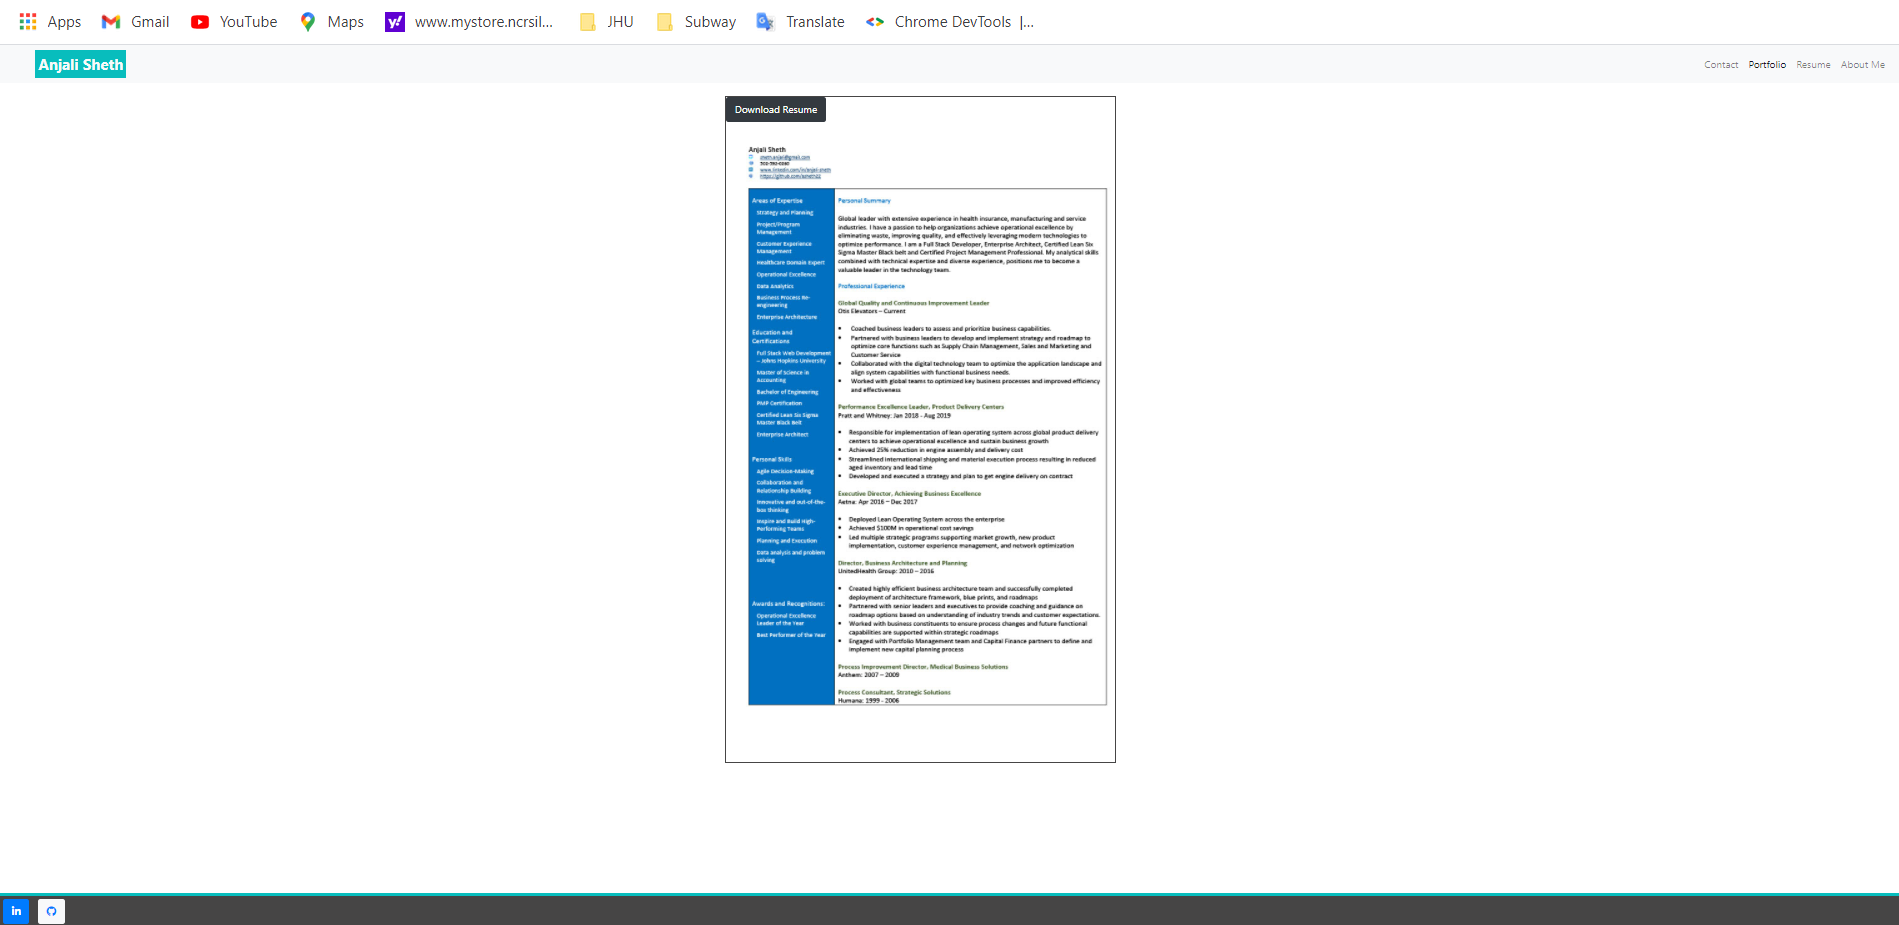
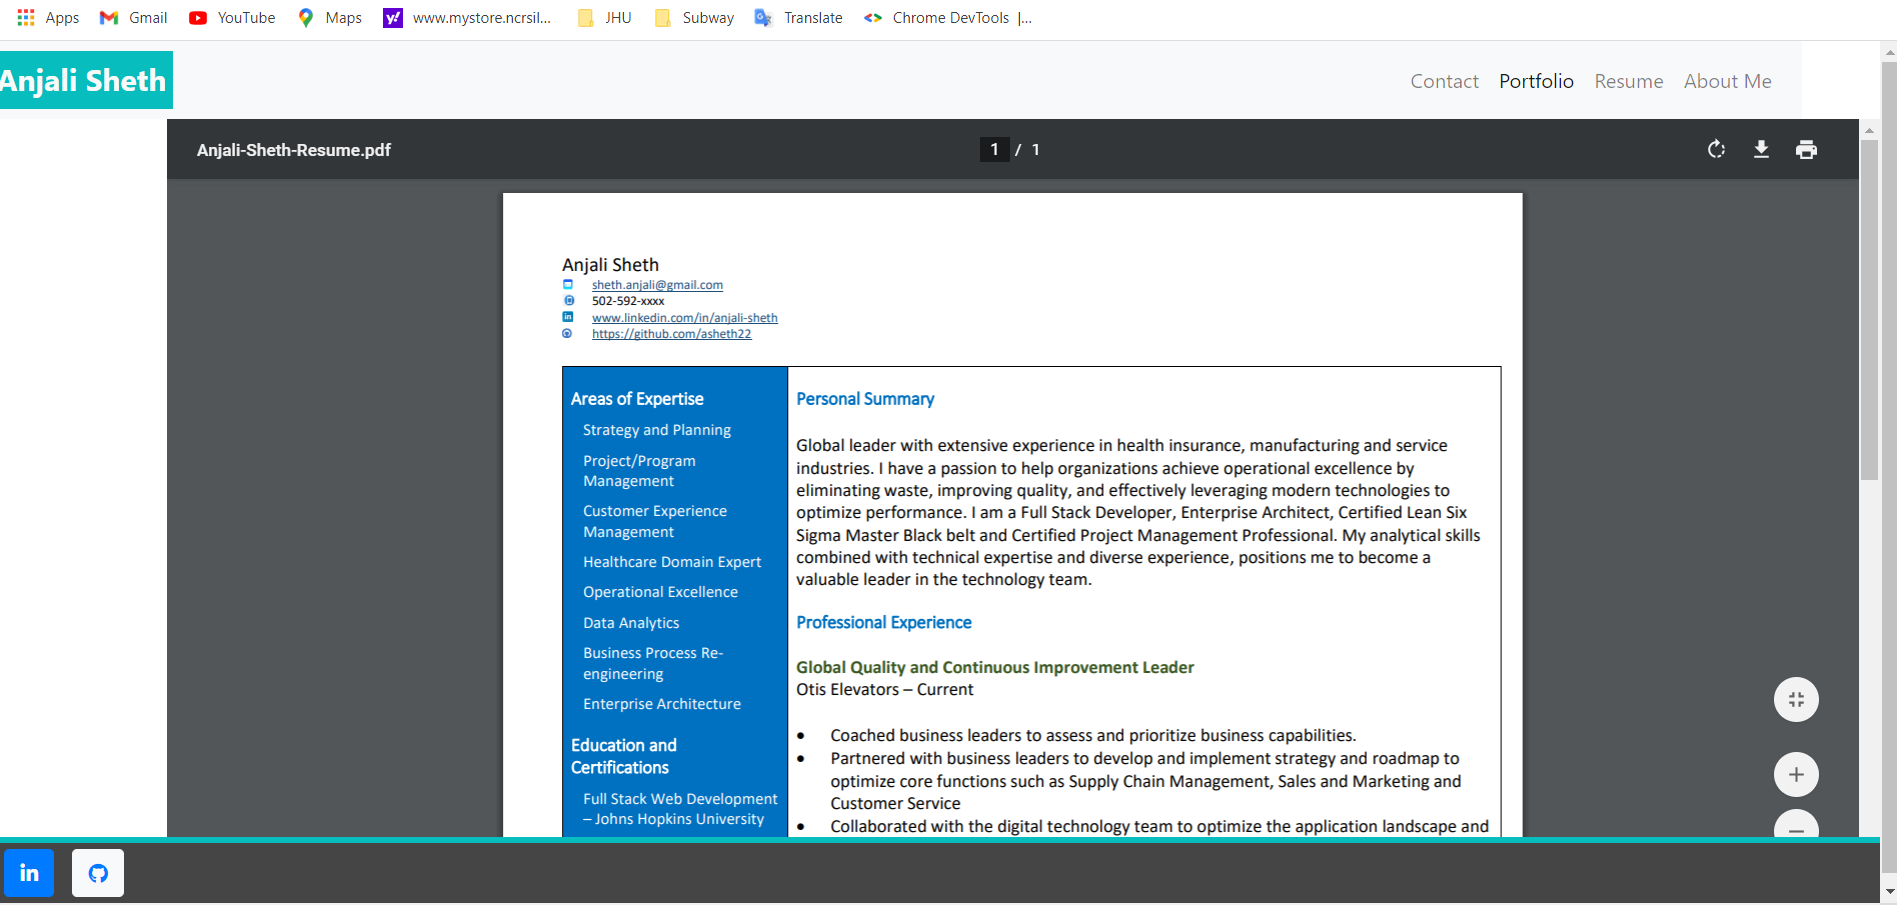
formatted resume and portfolio

diff --git a/assets/resume.html b/assets/resume.html
@@ -47,21 +47,15 @@
             </ul>
         </div>
     </nav>
-    <!-- REsume Page -->
+    <!-- Resume Page -->
     <main class="container resume">
         <div class="row">
-            <div class="col-md-2">
-                < </div>
-                    <div class="col-md-" id="resumeimg">
-                        <a href="Anjali-Sheth-Resume.pdf" class="btn btn-dark">Download Resume</a><br>
-                        <img src="Anjali-Sheth-Resume.jpg">
-                    </div>
-                    <div class="col-md-2">
-
-                    </div>
+            <div class="col-md-12">
+                <iframe src="./Anjali-Sheth-Resume.pdf" frameborder="0" height="100%" width="100%">
+                </iframe>
             </div>
+        </div>
     </main>
-
     <footer class="footer">
         <!-- Links to Linkedin and Github -->
         <button class="network btn btn-primary"><a href="https://www.linkedin.com/in/anjali-sheth"

diff --git a/assets/portfolio.html b/assets/portfolio.html
@@ -69,8 +69,7 @@
                     <h5 class="card-text"> Weather Forecast for any city in the world</h5><br>
                     <img class="card-img-top" src="./images/Weather.png" alt="Weather Dashboard">
                     <div class="card-body">
-                        <a href="https://asheth22.github.io/Weather_Dashboard/" class="btn btn-info">Weather
-                            Dashboard</a>
+                        <a href="https://asheth22.github.io/Weather_Dashboard/" class="btn btn-info">Weather-App</a>
                         <a href="https://github.com/asheth22/Weather_Dashboard" class="btn btn-info"> <i
                                 class="fa fa-github"></i>Github Repo </a>
                     </div>

diff --git a/assets/contact.html b/assets/contact.html
@@ -65,7 +65,7 @@
                 <h5 class="card-text"> <i class="fa fa-envelope-open"> </i> Email: sheth.anjali@gmail.com</h5>
                 <h5></h5>
                 <h5 class="card-text"> </h5>
-                <h5 class="card-text"> <i class="fas fa-mobile-alt"> </i> Phone: 502-592-2060 </h5>
+                <h5 class="card-text"> <i class="fas fa-mobile-alt"> </i> Phone: 502-592-xxxx </h5>
             </div>
         </div>
     </main>

diff --git a/assets/style.css b/assets/style.css
@@ -108,9 +108,12 @@ h2 {
     font-weight: bold;
     color: rgb(255, 250, 253) ;
 }
-/* styling for resume page */
-#resumeimg {
-    margin: 20px;
-    border: #464545 2px solid;
+/* Styling for resume iframe */
+iframe {
+    display: block;       /* iframes are inline by default */
+    background: #000;
+    border: none;         /* Reset default border */
+    height: 90vh;        /* Viewport-relative units */
+    width: 90vw;
 }
 
